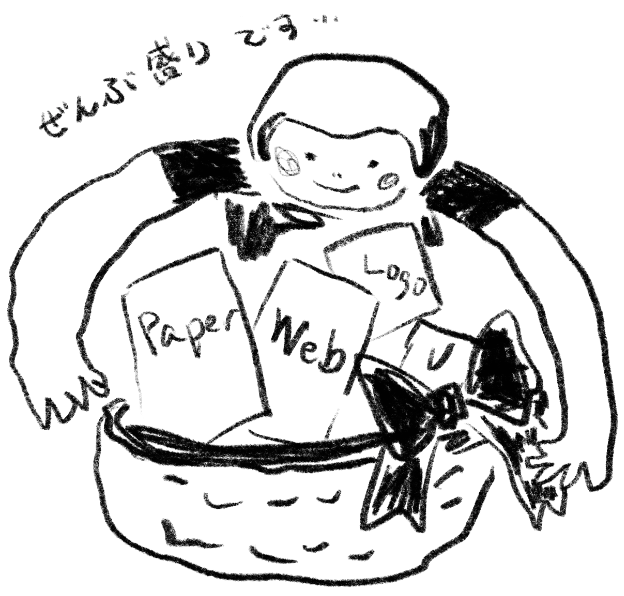
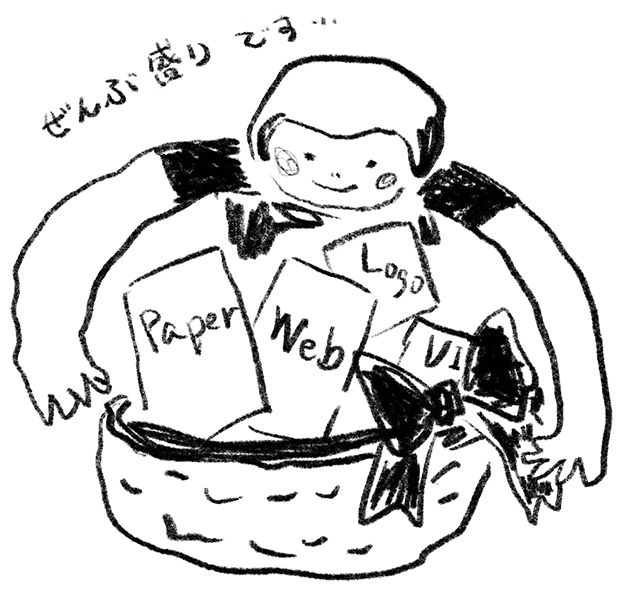
GoodPointのイメージ画像変更

diff --git a/src/components/Merits.tsx b/src/components/Merits.tsx
@@ -5,6 +5,8 @@ import { useInView } from 'react-intersection-observer';
 import TextLink from './common/TextLink';
 import MeritImage01 from 'images/merit_01.png';
 import MeritImage02 from 'images/merit_02.png';
+import MeritImage03 from 'images/merit_03.png';
+import MeritImage04 from 'images/merit_04.png';
 import { ContextData } from 'pages/BaseProvider';
 import styles from 'styles/modules/Merits.module.scss';
 
@@ -184,7 +186,7 @@ const Merits = () => {
         </div>
         <div className={styles.meritImage}>
           <Image
-            src={MeritImage01}
+            src={MeritImage03}
             alt={
               '「なんとなく格好いい」だけ、 のデザインはしません。'
             }
@@ -250,8 +252,8 @@ const Merits = () => {
         </div>
         <div className={styles.meritImage}>
           <Image
-            src={MeritImage02}
-            alt={'デザインに関わること、全部できます。'}
+            src={MeritImage04}
+            alt={'アートとデザインの融合で、他と、ちょっと差をつけます。'}
           />
         </div>
       </div>
